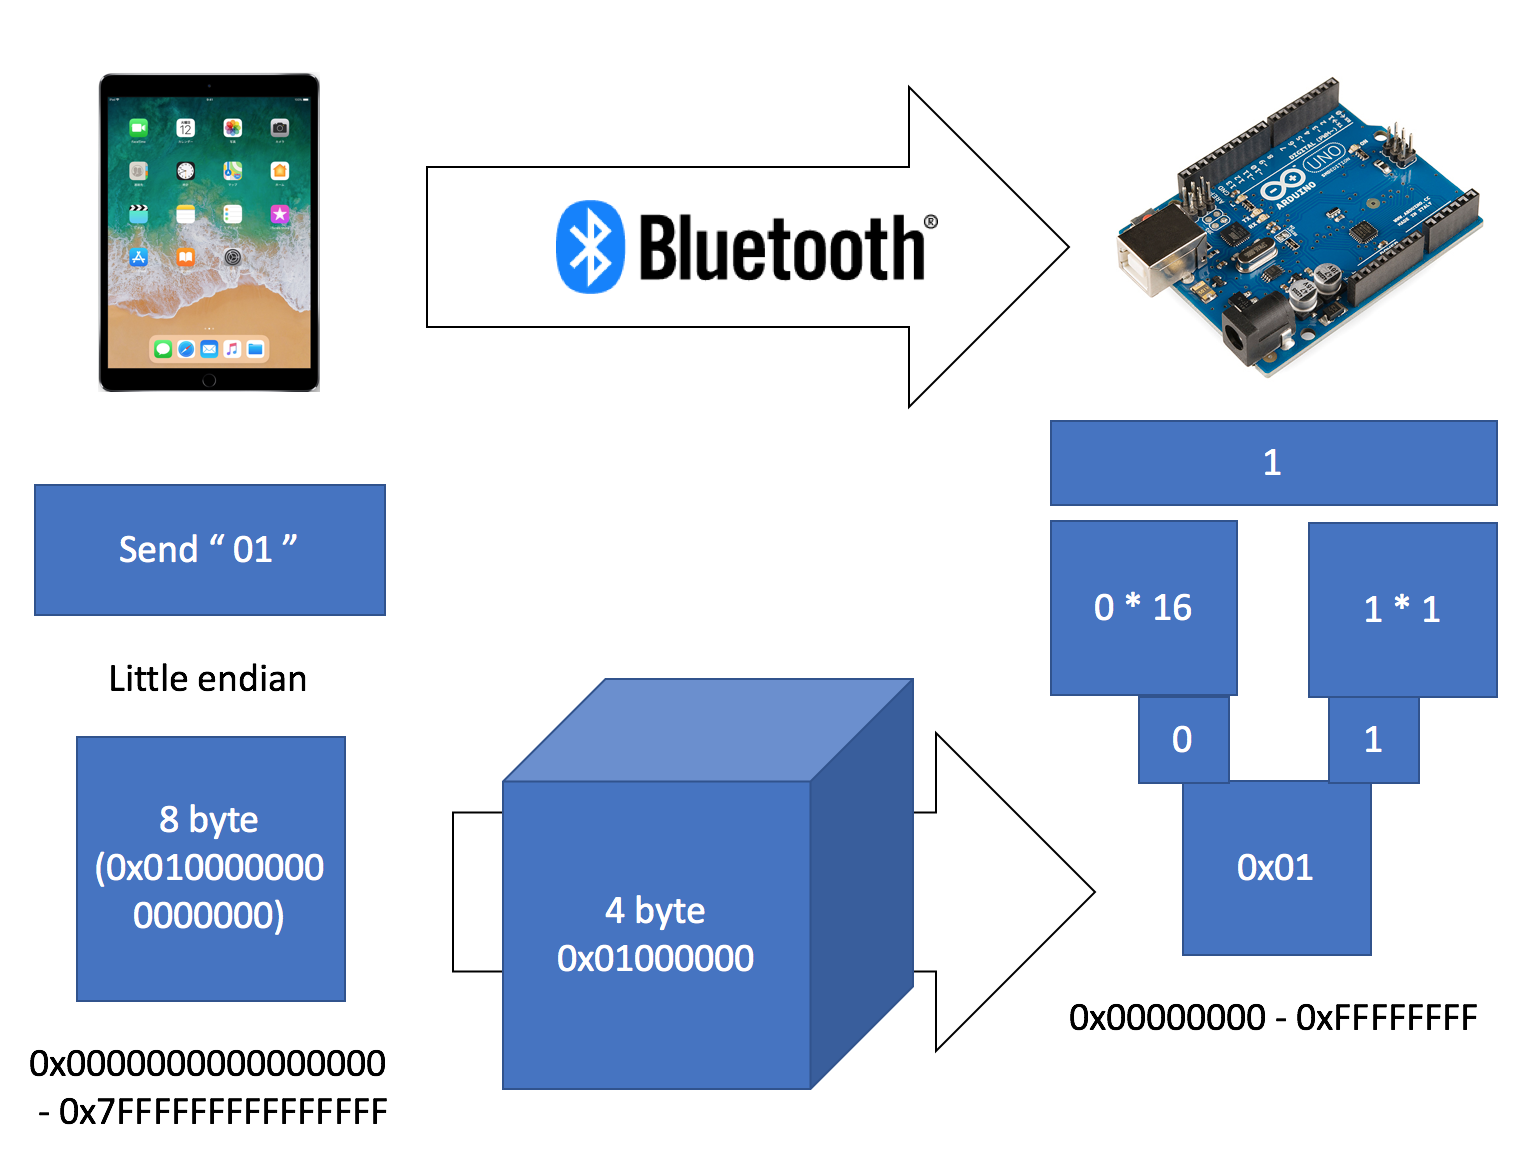
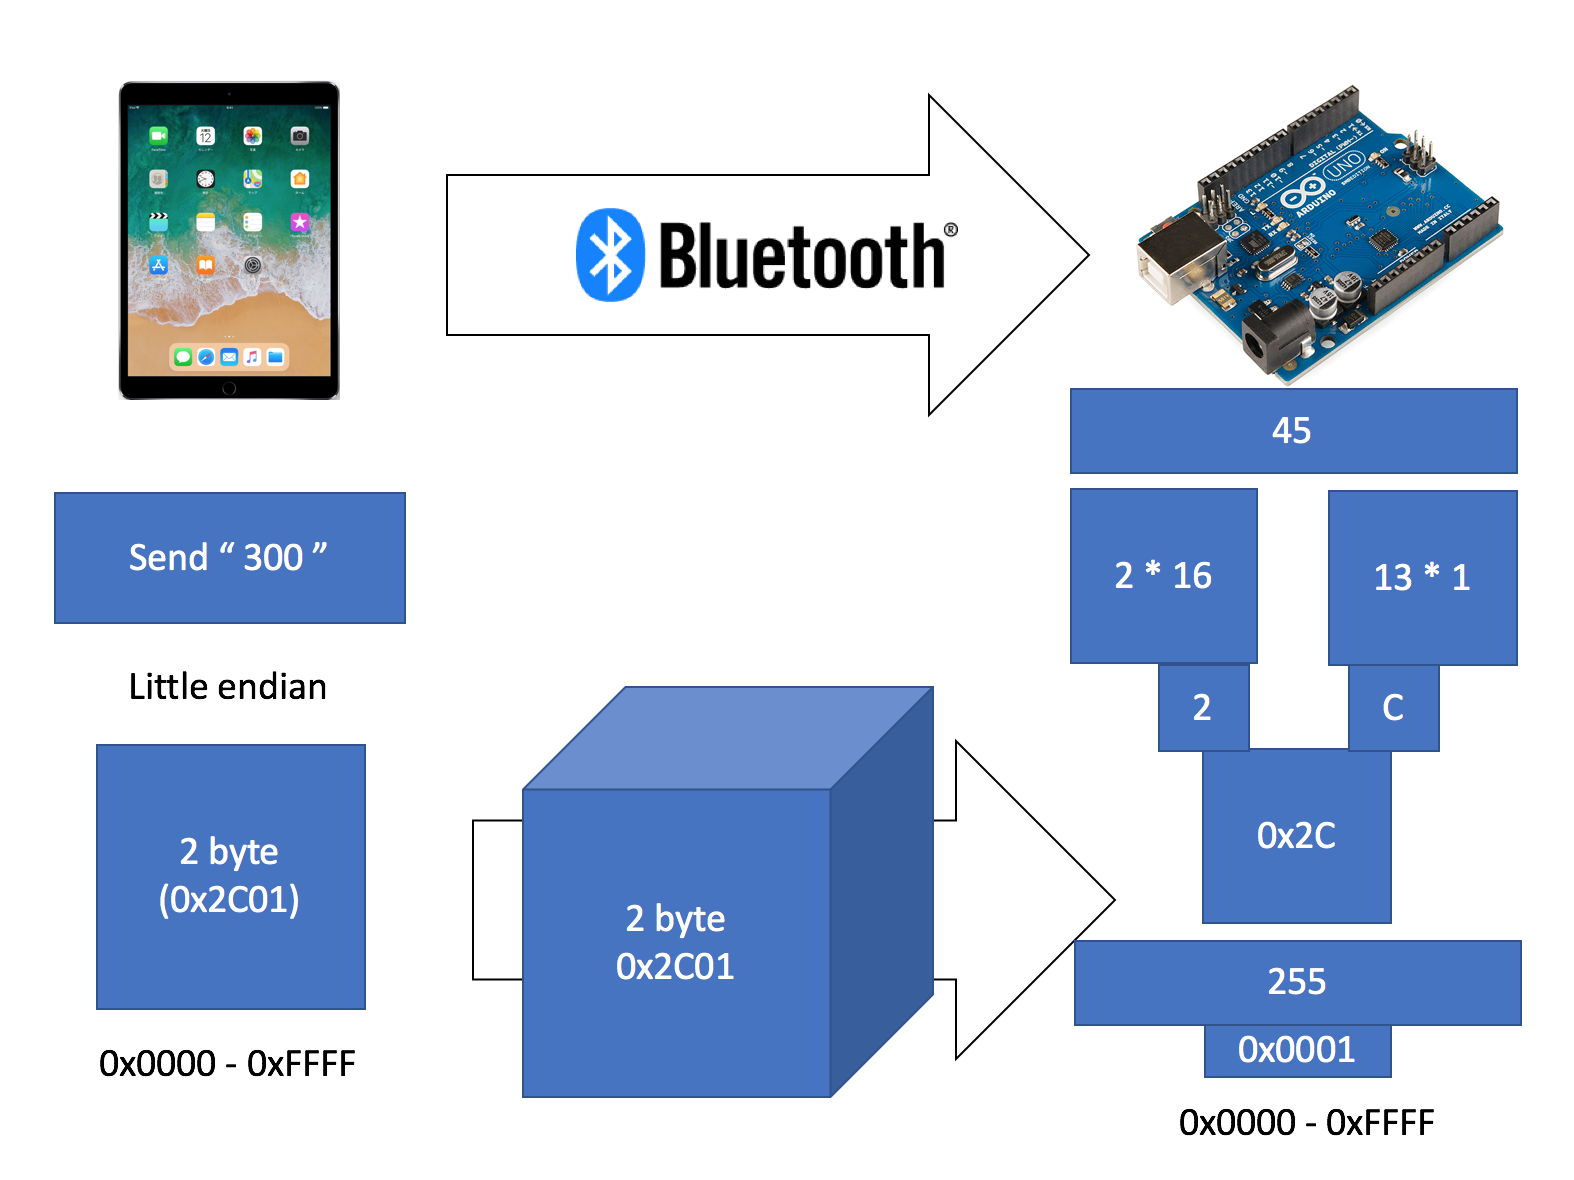
:memo: Update doc

diff --git a/OperantChamberApp/docs/BLEInfo.md b/OperantChamberApp/docs/BLEInfo.md
@@ -9,9 +9,9 @@ Bluetooth LE can connect without authorization, so peripheral devices without kn
 
 ## Algorithm
 
-![al1](https://user-images.githubusercontent.com/22558921/37642638-40e222de-2c61-11e8-9592-146ff95fd071.png)
+![al1](https://user-images.githubusercontent.com/22558921/37893187-3f3e369e-3115-11e8-921a-77693dec84ed.png)
 
-![al2](https://user-images.githubusercontent.com/22558921/37642639-41156dec-2c61-11e8-892f-e6740789488b.png)
+![al2](https://user-images.githubusercontent.com/22558921/37893188-3f6ef540-3115-11e8-87c4-efd8472563f2.png)
 
 This app use number of bytes send/receive data for Bluetooth LE. The method is faster than translate data from text or number.
 
